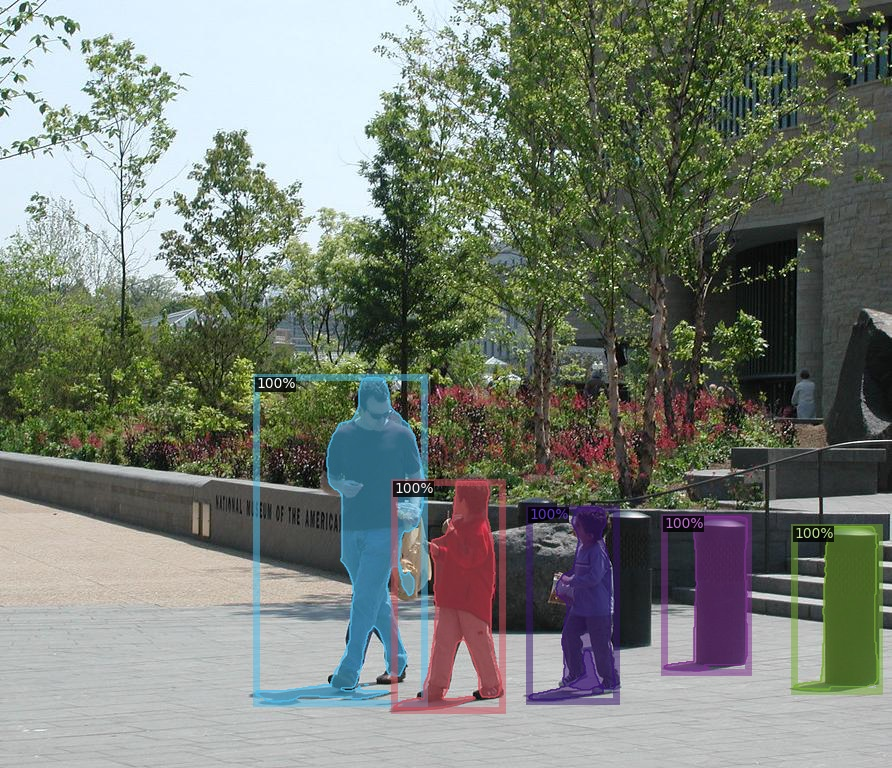
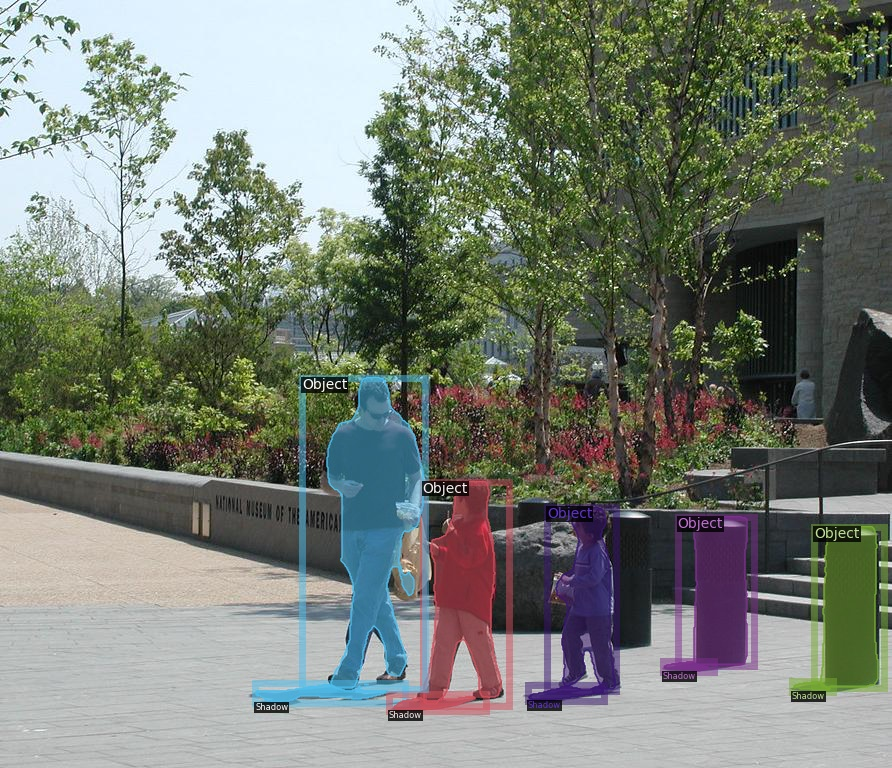
Fix bugs in predictor.py

Changed region(s): [[0.2724, 0.4688, 0.6962, 0.9375], [0.7265, 0.6562, 0.8475, 0.9062], [0.8778, 0.6562, 0.9989, 0.9375]]

diff --git a/projects/LISA/predictor.py b/projects/LISA/predictor.py
@@ -22,7 +22,7 @@ class VisualizationDemo(object):
             parallel (bool): whether to run the model in different processes from visualization.
                 Useful since the visualization logic can be slow.
         """
-        self.metadata = MetadataCatalog.get(cfg.DATASETS.TEST[0])
+        self.metadata = MetadataCatalog.get('soba_cast_shadow_val_full')
         self.cpu_device = torch.device("cpu")
         self.instance_mode = instance_mode
 
@@ -58,11 +58,17 @@ class VisualizationDemo(object):
                 vis_output = visualizer.draw_sem_seg(
                     predictions["sem_seg"].argmax(dim=0).to(self.cpu_device)
                 )
-            if "instances" in predictions[1][0]:
-                instances = predictions[1][0]["instances"].to(self.cpu_device)
-                if instances.pred_masks[0].shape[2] ==1:
-                    instances.pred_masks = [i[:,:,0] for i in instances.pred_masks]
-                print(instances.pred_masks[0].shape)
+           # if "instances" in predictions[1][0]:
+            #    instances = predictions[1][0]["instances"].to(self.cpu_device)
+             #   if instances.pred_masks[0].shape[2] == 1:
+              #      instances.pred_masks = [mk[:,:,0] for mk in instances.pred_masks]
+               # vis_asso = visualizer.draw_instance_predictions(instances,True,'right')
+            if "instances" in predictions[0][0]:
+                
+                instances = predictions[0][0]["instances"].to(self.cpu_device)
+                instances.pred_masks = instances.pred_masks.numpy()
+                #instances.pred_boxes = instances.pred_boxes
+               # print(instances.pred_masks.shape)
                 vis_output = visualizer.draw_instance_predictions(predictions=instances)
 
         return predictions, vis_output
